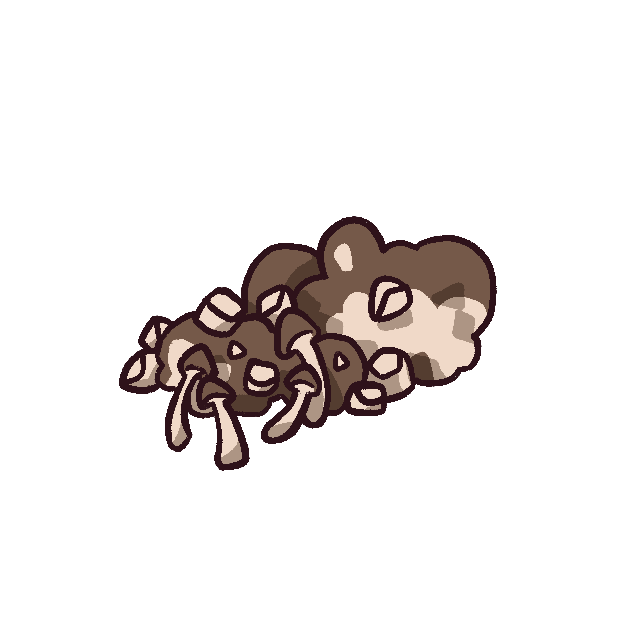
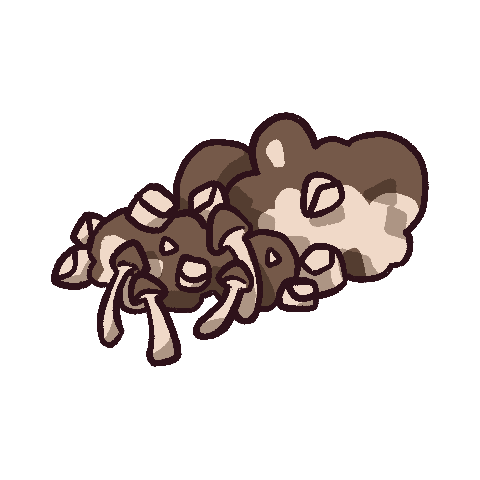
Fix order ui
order UI now show the station and the ingredients as well.

Changed region(s): [[0.0938, 0.2188, 0.9062, 0.7812]]

diff --git a/TheStove/Core/OrderUILogic.hpp b/TheStove/Core/OrderUILogic.hpp
@@ -22,6 +22,7 @@ public:
 
 private:
     static constexpr int kMaxOrders = 4;
+    static constexpr int kRecipeCols = 2; // 2 ingredients + 2 stations
 
     struct WaitingOrder
     {
@@ -35,7 +36,13 @@ private:
         int customerId = -1;
 
         int panelId = -1;
-        int iconId = -1;
+
+        // Dish icon (top)
+        int dishIconId = -1;
+
+        // Recipe icons
+        std::vector<int> ingredientIconIds; // size = kRecipeCols
+        std::vector<int> stationIconIds;    // size = kRecipeCols
 
         bool panelSpawned = false;
         DishType lastDish = DishType::PoopDish;
@@ -44,23 +51,37 @@ private:
 
     std::vector<OrderSlot> slots_;
 
-    // Config
+    // --------------------
+    // UI Config
+    // --------------------
     const char* panelTex_ = "../assets/Order_UI.png";
     const char* invisTex_ = "../assets/invis.png";
+
     std::string panelLayer_ = "3";
-    std::string iconLayer_ = "4";
+    std::string dishLayer_ = "4";
+    std::string ingredientLayer_ = "4";
+    std::string stationLayer_ = "4";
 
     glm::vec2 panelTargetPos_ = { 460.f, 64.f };
     glm::vec2 panelSize_ = { 168.f, 124.f };
     float slideDuration_ = 0.45f;
 
-    // You WILL need to tweak these to align the dish inside the panel
-    glm::vec2 iconOffset_ = { 0.f, 0.f };
-    glm::vec2 iconSize_ = { 64.f, 64.f };
+    // Layout offsets relative to panel position (TWEAK THESE to match your panel art)
+    glm::vec2 dishOffset_ = { 0.f, -44.f };
+    glm::vec2 dishSize_ = { 75.f, 75.f };
 
-    float ticketGapY_ = 120.f; // space between tickets
+    std::vector<glm::vec2> ingredientOffsets_ = { { -20.f, 4.f }, { 20.f, 4.f } };
+    glm::vec2 ingredientSize_ = { 40.f, 40.f };
 
-    // Collect all currently-waiting orders (not just one)
+    std::vector<glm::vec2> stationOffsets_ = { { -20.f, 40.f }, { 20.f, 40.f } };
+    glm::vec2 stationSize_ = { 35.f, 35.f };
+
+    float ticketGapY_ = 120.f; // space between tickets (used in SlotTargetPos)
+
+private:
+    // --------------------
+    // Order Collection
+    // --------------------
     void CollectWaitingOrders(Scene& scene, std::vector<WaitingOrder>& outOrders);
 
     // Slot helpers
@@ -69,12 +90,23 @@ private:
 
     // Spawn/maintain UI
     void EnsurePanel(Scene& scene, int slotIndex, OrderSlot& slot);
-    void EnsureIcon(Scene& scene, OrderSlot& slot);
+    void EnsureDishIcon(Scene& scene, OrderSlot& slot);
+    void EnsureRecipeIcons(Scene& scene, OrderSlot& slot);
     void FollowPanel(Scene& scene, OrderSlot& slot);
 
     // Texture updates
     const char* DishToIconPath(DishType t) const;
     void SetIconTexture(Scene& scene, int iconId, const char* texPath);
+
+    void UpdateRecipeIcons(Scene& scene, OrderSlot& slot, DishType dish);
+    void GetRecipeIconPaths(DishType dish,
+        std::vector<const char*>& outIngredientTex,
+        std::vector<const char*>& outStationTex) const;
+
+    // Generic spawn helper
+    void EnsureSubSprite(Scene& scene, int panelId, int& spriteId,
+        const glm::vec2& offset, const glm::vec2& size,
+        const std::string& layer);
 
     // Utility
     int FindOrderIndexByCustomer(const std::vector<WaitingOrder>& orders, int customerId) const;
